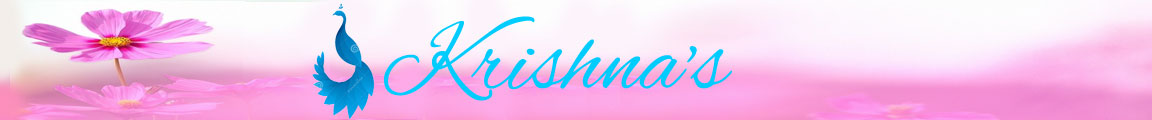
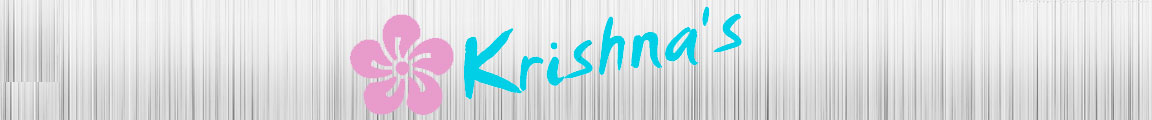
theme changed

diff --git a/src/com/mypersonalbudget/windows/HomePage.java b/src/com/mypersonalbudget/windows/HomePage.java
@@ -109,6 +109,7 @@ public class HomePage extends javax.swing.JFrame {
         jLabel8 = new javax.swing.JLabel();
         backUpButton = new javax.swing.JButton();
         jButton1 = new javax.swing.JButton();
+        jLabel6 = new javax.swing.JLabel();
         jMenuBar1 = new javax.swing.JMenuBar();
         File = new javax.swing.JMenu();
         newEntry = new javax.swing.JMenuItem();
@@ -121,20 +122,24 @@ public class HomePage extends javax.swing.JFrame {
         setDefaultCloseOperation(javax.swing.WindowConstants.EXIT_ON_CLOSE);
         setTitle("Home Page");
 
-        jPanel1.setBackground(new java.awt.Color(255, 153, 204));
+        jPanel1.setBackground(new java.awt.Color(0, 204, 204));
+        jPanel1.setLayout(null);
 
-        headImage.setIcon(new javax.swing.ImageIcon(getClass().getResource("/Images/head1.jpg"))); // NOI18N
+        headImage.setIcon(new javax.swing.ImageIcon(getClass().getResource("/Images/head1 (2).jpg"))); // NOI18N
         headImage.setMaximumSize(new java.awt.Dimension(1100, 120));
         headImage.setPreferredSize(new java.awt.Dimension(1100, 120));
+        jPanel1.add(headImage);
+        headImage.setBounds(0, 0, 1152, 120);
 
         jLabel1.setFont(new java.awt.Font("Bradley Hand ITC", 1, 24)); // NOI18N
         jLabel1.setForeground(new java.awt.Color(255, 255, 255));
         jLabel1.setText("Last Entries");
+        jPanel1.add(jLabel1);
+        jLabel1.setBounds(328, 289, 135, 31);
 
-        jTable1.setBackground(new java.awt.Color(51, 153, 0));
         jTable1.setBorder(new javax.swing.border.SoftBevelBorder(javax.swing.border.BevelBorder.RAISED));
         jTable1.setFont(new java.awt.Font("Bell MT", 0, 16)); // NOI18N
-        jTable1.setForeground(new java.awt.Color(255, 255, 255));
+        jTable1.setForeground(new java.awt.Color(255, 0, 0));
         jTable1.setModel(new javax.swing.table.DefaultTableModel(
             new Object [][] {
                 {null, null, null, null, null, null},
@@ -166,12 +171,19 @@ public class HomePage extends javax.swing.JFrame {
         jTable1.setSelectionBackground(new java.awt.Color(255, 0, 0));
         jScrollPane2.setViewportView(jTable1);
 
-        jLabel2.setIcon(new javax.swing.ImageIcon(getClass().getResource("/Images/Untitled-1-copy.png"))); // NOI18N
+        jPanel1.add(jScrollPane2);
+        jScrollPane2.setBounds(44, 338, 726, 93);
+
+        jLabel2.setIcon(new javax.swing.ImageIcon(getClass().getResource("/Images/vector_flower.png"))); // NOI18N
         jLabel2.setText("jLabel2");
+        jPanel1.add(jLabel2);
+        jLabel2.setBounds(813, 132, 288, 501);
 
         jLabel5.setFont(new java.awt.Font("Tempus Sans ITC", 1, 18)); // NOI18N
         jLabel5.setForeground(new java.awt.Color(255, 255, 255));
         jLabel5.setText("This Month Total  :");
+        jPanel1.add(jLabel5);
+        jLabel5.setBounds(44, 237, 168, 25);
 
         sumOfThisMonth.setFont(new java.awt.Font("Century Schoolbook", 1, 18)); // NOI18N
         sumOfThisMonth.setForeground(new java.awt.Color(204, 0, 0));
@@ -191,21 +203,32 @@ public class HomePage extends javax.swing.JFrame {
             .addComponent(sumOfThisMonth, javax.swing.GroupLayout.Alignment.TRAILING)
         );
 
+        jPanel1.add(jPanel2);
+        jPanel2.setBounds(230, 240, 159, 22);
+
         jLabel3.setFont(new java.awt.Font("Tahoma", 1, 12)); // NOI18N
         jLabel3.setForeground(new java.awt.Color(0, 51, 153));
         jLabel3.setText("Venki");
+        jPanel1.add(jLabel3);
+        jLabel3.setBounds(290, 470, 33, 15);
 
         jLabel4.setFont(new java.awt.Font("Tahoma", 1, 12)); // NOI18N
         jLabel4.setForeground(new java.awt.Color(0, 0, 153));
         jLabel4.setText("Manju");
+        jPanel1.add(jLabel4);
+        jLabel4.setBounds(290, 490, 38, 15);
 
         jLabel7.setFont(new java.awt.Font("Tahoma", 1, 12)); // NOI18N
-        jLabel7.setForeground(new java.awt.Color(204, 0, 0));
+        jLabel7.setForeground(new java.awt.Color(255, 255, 255));
         jLabel7.setText("jLabel7");
+        jPanel1.add(jLabel7);
+        jLabel7.setBounds(360, 470, 44, 15);
 
         jLabel8.setFont(new java.awt.Font("Tahoma", 1, 12)); // NOI18N
-        jLabel8.setForeground(new java.awt.Color(204, 0, 0));
+        jLabel8.setForeground(new java.awt.Color(255, 255, 255));
         jLabel8.setText("jLabel8");
+        jPanel1.add(jLabel8);
+        jLabel8.setBounds(360, 490, 44, 15);
 
         backUpButton.setText("Back Up Data");
         backUpButton.addActionListener(new java.awt.event.ActionListener() {
@@ -213,6 +236,8 @@ public class HomePage extends javax.swing.JFrame {
                 backUpButtonActionPerformed(evt);
             }
         });
+        jPanel1.add(backUpButton);
+        backUpButton.setBounds(673, 240, 97, 23);
 
         jButton1.setText("Export Total Data To Excel");
         jButton1.addActionListener(new java.awt.event.ActionListener() {
@@ -220,77 +245,12 @@ public class HomePage extends javax.swing.JFrame {
                 jButton1ActionPerformed(evt);
             }
         });
+        jPanel1.add(jButton1);
+        jButton1.setBounds(419, 240, 161, 23);
 
-        javax.swing.GroupLayout jPanel1Layout = new javax.swing.GroupLayout(jPanel1);
-        jPanel1.setLayout(jPanel1Layout);
-        jPanel1Layout.setHorizontalGroup(
-            jPanel1Layout.createParallelGroup(javax.swing.GroupLayout.Alignment.LEADING)
-            .addComponent(headImage, javax.swing.GroupLayout.DEFAULT_SIZE, 1156, Short.MAX_VALUE)
-            .addGroup(jPanel1Layout.createSequentialGroup()
-                .addGroup(jPanel1Layout.createParallelGroup(javax.swing.GroupLayout.Alignment.LEADING)
-                    .addGroup(jPanel1Layout.createSequentialGroup()
-                        .addGap(328, 328, 328)
-                        .addComponent(jLabel1))
-                    .addGroup(jPanel1Layout.createSequentialGroup()
-                        .addGap(44, 44, 44)
-                        .addGroup(jPanel1Layout.createParallelGroup(javax.swing.GroupLayout.Alignment.LEADING)
-                            .addGroup(jPanel1Layout.createSequentialGroup()
-                                .addGroup(jPanel1Layout.createParallelGroup(javax.swing.GroupLayout.Alignment.TRAILING)
-                                    .addComponent(jLabel3)
-                                    .addComponent(jLabel4, javax.swing.GroupLayout.Alignment.LEADING))
-                                .addGap(47, 47, 47)
-                                .addGroup(jPanel1Layout.createParallelGroup(javax.swing.GroupLayout.Alignment.TRAILING)
-                                    .addComponent(jLabel7)
-                                    .addComponent(jLabel8)))
-                            .addGroup(jPanel1Layout.createParallelGroup(javax.swing.GroupLayout.Alignment.TRAILING, false)
-                                .addGroup(jPanel1Layout.createSequentialGroup()
-                                    .addComponent(jLabel5)
-                                    .addGap(18, 18, 18)
-                                    .addComponent(jPanel2, javax.swing.GroupLayout.PREFERRED_SIZE, javax.swing.GroupLayout.DEFAULT_SIZE, javax.swing.GroupLayout.PREFERRED_SIZE)
-                                    .addGap(30, 30, 30)
-                                    .addComponent(jButton1)
-                                    .addPreferredGap(javax.swing.LayoutStyle.ComponentPlacement.RELATED, javax.swing.GroupLayout.DEFAULT_SIZE, Short.MAX_VALUE)
-                                    .addComponent(backUpButton))
-                                .addComponent(jScrollPane2, javax.swing.GroupLayout.PREFERRED_SIZE, 726, javax.swing.GroupLayout.PREFERRED_SIZE)))))
-                .addPreferredGap(javax.swing.LayoutStyle.ComponentPlacement.RELATED, javax.swing.GroupLayout.DEFAULT_SIZE, Short.MAX_VALUE)
-                .addComponent(jLabel2, javax.swing.GroupLayout.PREFERRED_SIZE, 288, javax.swing.GroupLayout.PREFERRED_SIZE)
-                .addGap(51, 51, 51))
-        );
-        jPanel1Layout.setVerticalGroup(
-            jPanel1Layout.createParallelGroup(javax.swing.GroupLayout.Alignment.LEADING)
-            .addGroup(jPanel1Layout.createSequentialGroup()
-                .addComponent(headImage, javax.swing.GroupLayout.PREFERRED_SIZE, javax.swing.GroupLayout.DEFAULT_SIZE, javax.swing.GroupLayout.PREFERRED_SIZE)
-                .addGroup(jPanel1Layout.createParallelGroup(javax.swing.GroupLayout.Alignment.LEADING)
-                    .addGroup(jPanel1Layout.createSequentialGroup()
-                        .addGap(117, 117, 117)
-                        .addGroup(jPanel1Layout.createParallelGroup(javax.swing.GroupLayout.Alignment.LEADING)
-                            .addGroup(jPanel1Layout.createSequentialGroup()
-                                .addGroup(jPanel1Layout.createParallelGroup(javax.swing.GroupLayout.Alignment.TRAILING)
-                                    .addComponent(jPanel2, javax.swing.GroupLayout.PREFERRED_SIZE, javax.swing.GroupLayout.DEFAULT_SIZE, javax.swing.GroupLayout.PREFERRED_SIZE)
-                                    .addComponent(jLabel5))
-                                .addGap(27, 27, 27)
-                                .addComponent(jLabel1))
-                            .addGroup(jPanel1Layout.createSequentialGroup()
-                                .addGap(3, 3, 3)
-                                .addGroup(jPanel1Layout.createParallelGroup(javax.swing.GroupLayout.Alignment.BASELINE)
-                                    .addComponent(backUpButton)
-                                    .addComponent(jButton1))))
-                        .addGap(18, 18, 18)
-                        .addComponent(jScrollPane2, javax.swing.GroupLayout.PREFERRED_SIZE, 93, javax.swing.GroupLayout.PREFERRED_SIZE)
-                        .addGap(45, 45, 45)
-                        .addGroup(jPanel1Layout.createParallelGroup(javax.swing.GroupLayout.Alignment.BASELINE)
-                            .addComponent(jLabel3)
-                            .addComponent(jLabel7))
-                        .addPreferredGap(javax.swing.LayoutStyle.ComponentPlacement.UNRELATED)
-                        .addGroup(jPanel1Layout.createParallelGroup(javax.swing.GroupLayout.Alignment.BASELINE)
-                            .addComponent(jLabel4)
-                            .addComponent(jLabel8))
-                        .addContainerGap(javax.swing.GroupLayout.DEFAULT_SIZE, Short.MAX_VALUE))
-                    .addGroup(javax.swing.GroupLayout.Alignment.TRAILING, jPanel1Layout.createSequentialGroup()
-                        .addPreferredGap(javax.swing.LayoutStyle.ComponentPlacement.RELATED, 12, Short.MAX_VALUE)
-                        .addComponent(jLabel2, javax.swing.GroupLayout.PREFERRED_SIZE, 501, javax.swing.GroupLayout.PREFERRED_SIZE)
-                        .addContainerGap())))
-        );
+        jLabel6.setIcon(new javax.swing.ImageIcon(getClass().getResource("/Images/light-blue-wallpaper-5.jpg"))); // NOI18N
+        jPanel1.add(jLabel6);
+        jLabel6.setBounds(0, 120, 1150, 520);
 
         jMenuBar1.setBackground(new java.awt.Color(-14336,true));
         jMenuBar1.setAutoscrolls(true);
@@ -362,7 +322,7 @@ public class HomePage extends javax.swing.JFrame {
             .addComponent(jPanel1, javax.swing.GroupLayout.Alignment.TRAILING, javax.swing.GroupLayout.DEFAULT_SIZE, javax.swing.GroupLayout.DEFAULT_SIZE, Short.MAX_VALUE)
         );
 
-        setSize(new java.awt.Dimension(1172, 703));
+        setSize(new java.awt.Dimension(1168, 703));
         setLocationRelativeTo(null);
     }// </editor-fold>//GEN-END:initComponents
 
@@ -439,6 +399,7 @@ public class HomePage extends javax.swing.JFrame {
     private javax.swing.JLabel jLabel3;
     private javax.swing.JLabel jLabel4;
     private javax.swing.JLabel jLabel5;
+    private javax.swing.JLabel jLabel6;
     private javax.swing.JLabel jLabel7;
     private javax.swing.JLabel jLabel8;
     private javax.swing.JMenuBar jMenuBar1;
